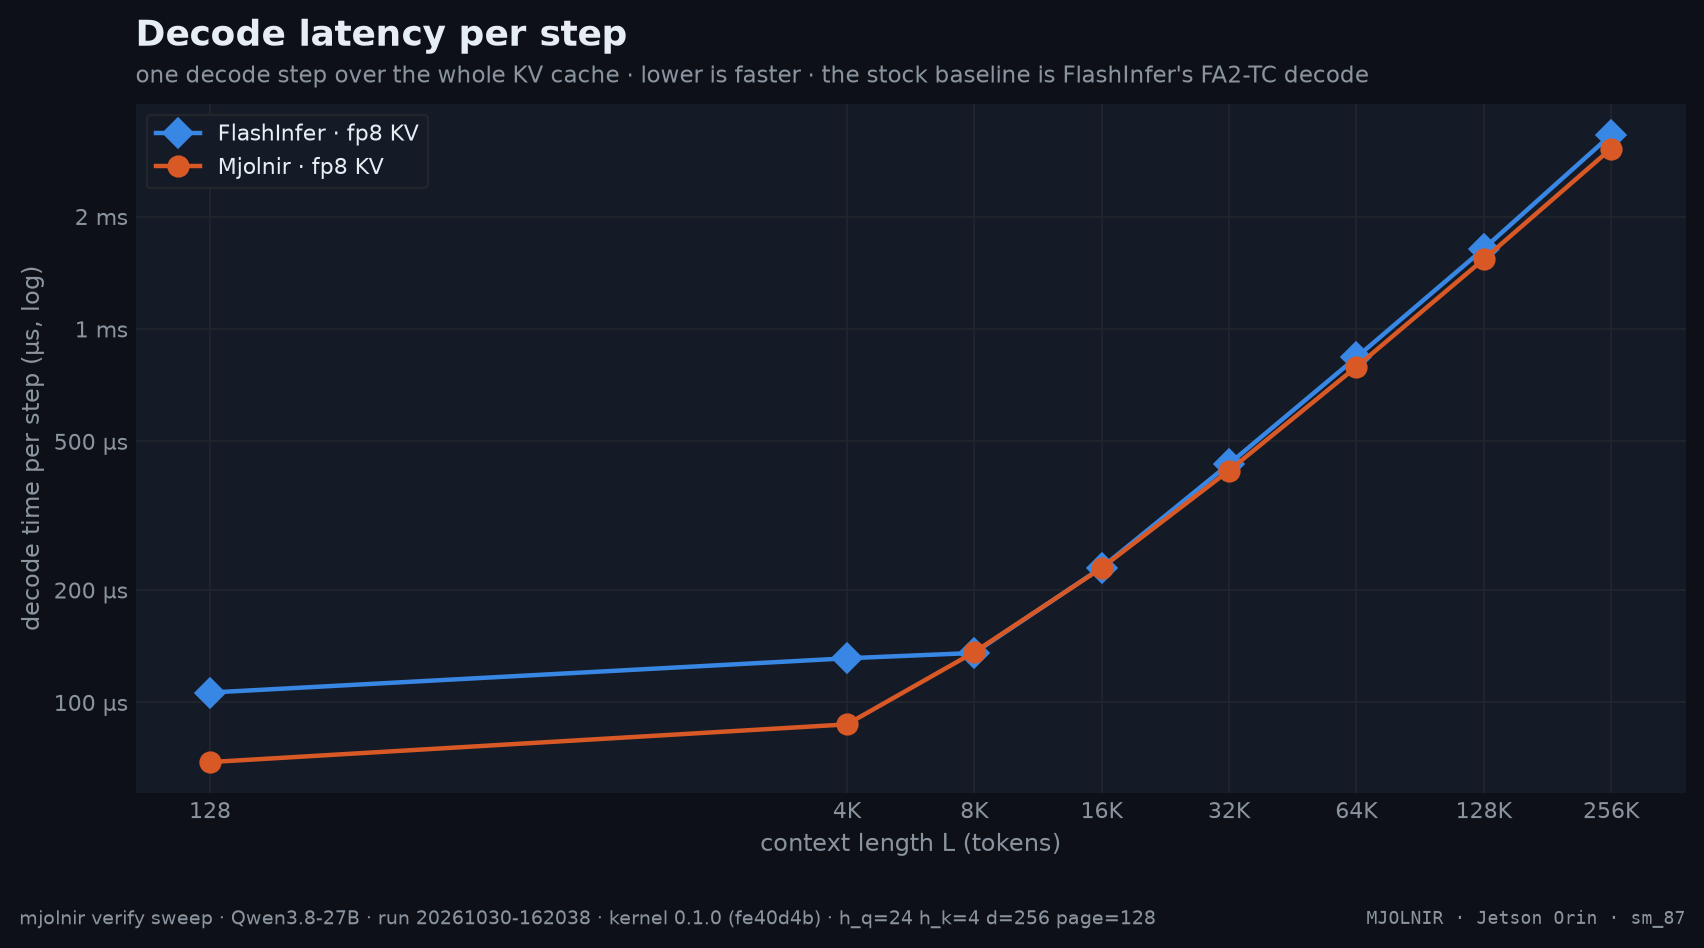
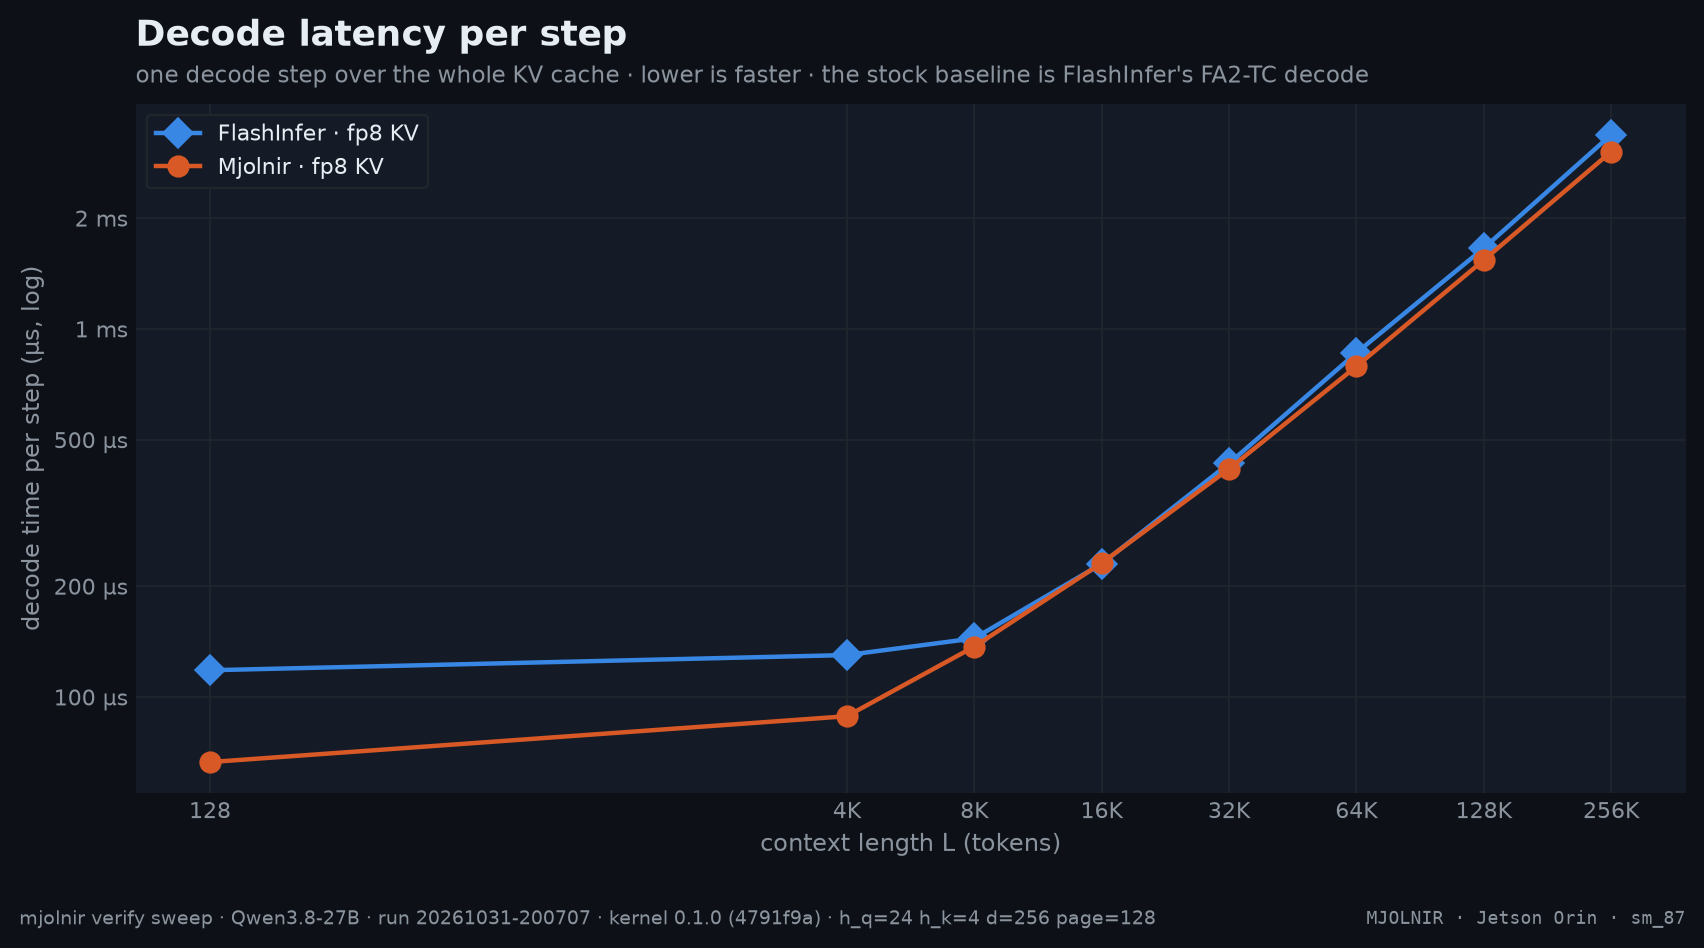
evidence refresh: the current kernel re-swept — 1.18x geomean, 48/48
correctness 20261031-200054 (all 48 checks, the hd128-era kernel) and
sweep 20261031-200707 replace the retired defaults; the orin README,
the correctness/sweep chapters and the three charts re-render from
them. Same-run vs FlashInfer FA2-TC: geomean 1.18x (min 1.00x at the
16K wall, max 1.78x at L=128) — up from the retired 1.14x record.

diff --git a/docs/platforms/orin/README.md b/docs/platforms/orin/README.md
@@ -49,7 +49,7 @@ from raw results in [`benchmarks/raw/verify/`](../../../benchmarks/raw/verify/)
 by `mjolnir plot --readme`; every chapter ends with the command that
 reproduces it.
 
-**Where it stands:** 1.14× FlashInfer (geomean over L = 128 4K 8K 16K 32K 64K 128K 256K), 48 / 48 correctness checks — run `20261030-162038`.
+**Where it stands:** 1.18× FlashInfer (geomean over L = 128 4K 8K 16K 32K 64K 128K 256K), 48 / 48 correctness checks — run `20261031-200707`.
 
 <details>
 <summary>How the % and × here are calculated</summary>
@@ -65,8 +65,8 @@ reproduces it.
 
 | # | chapter | question | status |
 |---|---|---|---|
-| 1 | [Correctness matrix](kernel/correctness.md) | kernel vs the bit-faithful emulator: every layout, format, page size, q_len, Q dtype | ✅ run `20261031-005307` |
-| 2 | [Headline L-sweep](kernel/sweep.md) | Mjolnir vs FlashInfer, fp8 KV — same-run kernel medians | ✅ run `20261030-162038` |
+| 1 | [Correctness matrix](kernel/correctness.md) | kernel vs the bit-faithful emulator: every layout, format, page size, q_len, Q dtype | ✅ run `20261031-200054` |
+| 2 | [Headline L-sweep](kernel/sweep.md) | Mjolnir vs FlashInfer, fp8 KV — same-run kernel medians | ✅ run `20261031-200707` |
 | 3 | [Head-major pages](kernel/hndsweep.md) | FlashInfer on NHD and HND vs Mjolnir on HND — is HND a kernel win or a layout win? | ✅ run `20261030-141453` |
 | 4 | [KV layouts and formats](kernel/kvfmt.md) | fp8 / fp6 / fp4 / nvfp4 KV on NHD / interleaved / HND pages (ncu + wall clock) | ✅ run `20261030-151506` |
 | 5 | [KV format accuracy](kernel/quant.md) | relative L2 error of each KV format vs unquantized KV, at every L | ✅ run `20261030-153729` |
@@ -97,15 +97,15 @@ Measured on the Orin: the `sm_87` mma decode kernel against the FlashInfer refer
 
 | L | Mjolnir fp8 | FlashInfer | fp8 vs FI |
 |---|--:|--:|--:|
-| **128** | **69.2&nbsp;µs** | 106.3&nbsp;µs | $\color{#16a34a}{\mathbf{1.54\times}}$ |
-| **4K** | **87.4&nbsp;µs** | 131.3&nbsp;µs | $\color{#16a34a}{\mathbf{1.50\times}}$ |
-| **8K** | 136.3&nbsp;µs | **135.7&nbsp;µs** | $\color{grey}{1.00\times}$ |
-| **16K** | **229.2&nbsp;µs** | 229.7&nbsp;µs | $\color{grey}{1.00\times}$ |
-| **32K** | **417.6&nbsp;µs** | 434.8&nbsp;µs | $\color{#16a34a}{\mathbf{1.04\times}}$ |
-| **64K** | **791.3&nbsp;µs** | 838.9&nbsp;µs | $\color{#16a34a}{\mathbf{1.06\times}}$ |
-| **128K** | **1.54&nbsp;ms** | 1.64&nbsp;ms | $\color{#16a34a}{\mathbf{1.07\times}}$ |
-| **256K** | **3.04&nbsp;ms** | 3.31&nbsp;ms | $\color{#16a34a}{\mathbf{1.09\times}}$ |
-| geomean |  |  | $\color{#16a34a}{\mathbf{1.14\times}}$ |
+| **128** | **66.6&nbsp;µs** | 118.2&nbsp;µs | $\color{#16a34a}{\mathbf{1.78\times}}$ |
+| **4K** | **88.7&nbsp;µs** | 130.0&nbsp;µs | $\color{#16a34a}{\mathbf{1.47\times}}$ |
+| **8K** | **137.0&nbsp;µs** | 144.3&nbsp;µs | $\color{#16a34a}{\mathbf{1.05\times}}$ |
+| **16K** | 231.0&nbsp;µs | **230.0&nbsp;µs** | $\color{grey}{1.00\times}$ |
+| **32K** | **416.5&nbsp;µs** | 431.0&nbsp;µs | $\color{#16a34a}{\mathbf{1.03\times}}$ |
+| **64K** | **790.5&nbsp;µs** | 860.5&nbsp;µs | $\color{#16a34a}{\mathbf{1.09\times}}$ |
+| **128K** | **1.54&nbsp;ms** | 1.66&nbsp;ms | $\color{#16a34a}{\mathbf{1.08\times}}$ |
+| **256K** | **3.03&nbsp;ms** | 3.37&nbsp;ms | $\color{#16a34a}{\mathbf{1.11\times}}$ |
+| geomean |  |  | $\color{#16a34a}{\mathbf{1.18\times}}$ |
 
 > <sub>Bold = fastest at that `L`. Ratio columns: baseline time ÷ this kernel's time (green = faster beyond noise).</sub>
 

diff --git a/docs/platforms/orin/kernel/sweep.md b/docs/platforms/orin/kernel/sweep.md
@@ -1,6 +1,6 @@
 # Headline L-sweep
 
-> the `sm_87` mma kernel vs the FlashInfer FA2-TC reference — events-timed at every L, same run, stock image · `mjolnir verify sweep` · run `20261030-162038`
+> the `sm_87` mma kernel vs the FlashInfer FA2-TC reference — events-timed at every L, same run, stock image · `mjolnir verify sweep` · run `20261031-200707`
 
 ## The question
 
@@ -21,19 +21,19 @@ The headline: how fast is one decode step with Mjolnir against the platform's st
 
 <img src="../../../../assets/benchmarks/orin/Qwen3.8-27B/kernel-bandwidth.png" alt="Effective KV bandwidth vs the platform's memory peak" width="100%">
 
-- **Mjolnir MMA (fp8 KV, HND)** vs FlashInfer FA2-TC (fp8 KV, NHD): geomean **1.14×**, from 1.00× (L=8K) to 1.54× (L=128); faster beyond the ±3% noise band at 6 of 8 context lengths.
+- **Mjolnir MMA (fp8 KV, HND)** vs FlashInfer FA2-TC (fp8 KV, NHD): geomean **1.18×**, from 1.00× (L=16K) to 1.78× (L=128); faster beyond the ±3% noise band at 7 of 8 context lengths.
 
 | L | Mjolnir fp8 | FlashInfer | fp8 vs FI |
 |---|--:|--:|--:|
-| **128** | **69.2&nbsp;µs** | 106.3&nbsp;µs | $\color{#16a34a}{\mathbf{1.54\times}}$ |
-| **4K** | **87.4&nbsp;µs** | 131.3&nbsp;µs | $\color{#16a34a}{\mathbf{1.50\times}}$ |
-| **8K** | 136.3&nbsp;µs | **135.7&nbsp;µs** | $\color{grey}{1.00\times}$ |
-| **16K** | **229.2&nbsp;µs** | 229.7&nbsp;µs | $\color{grey}{1.00\times}$ |
-| **32K** | **417.6&nbsp;µs** | 434.8&nbsp;µs | $\color{#16a34a}{\mathbf{1.04\times}}$ |
-| **64K** | **791.3&nbsp;µs** | 838.9&nbsp;µs | $\color{#16a34a}{\mathbf{1.06\times}}$ |
-| **128K** | **1.54&nbsp;ms** | 1.64&nbsp;ms | $\color{#16a34a}{\mathbf{1.07\times}}$ |
-| **256K** | **3.04&nbsp;ms** | 3.31&nbsp;ms | $\color{#16a34a}{\mathbf{1.09\times}}$ |
-| geomean |  |  | $\color{#16a34a}{\mathbf{1.14\times}}$ |
+| **128** | **66.6&nbsp;µs** | 118.2&nbsp;µs | $\color{#16a34a}{\mathbf{1.78\times}}$ |
+| **4K** | **88.7&nbsp;µs** | 130.0&nbsp;µs | $\color{#16a34a}{\mathbf{1.47\times}}$ |
+| **8K** | **137.0&nbsp;µs** | 144.3&nbsp;µs | $\color{#16a34a}{\mathbf{1.05\times}}$ |
+| **16K** | 231.0&nbsp;µs | **230.0&nbsp;µs** | $\color{grey}{1.00\times}$ |
+| **32K** | **416.5&nbsp;µs** | 431.0&nbsp;µs | $\color{#16a34a}{\mathbf{1.03\times}}$ |
+| **64K** | **790.5&nbsp;µs** | 860.5&nbsp;µs | $\color{#16a34a}{\mathbf{1.09\times}}$ |
+| **128K** | **1.54&nbsp;ms** | 1.66&nbsp;ms | $\color{#16a34a}{\mathbf{1.08\times}}$ |
+| **256K** | **3.03&nbsp;ms** | 3.37&nbsp;ms | $\color{#16a34a}{\mathbf{1.11\times}}$ |
+| geomean |  |  | $\color{#16a34a}{\mathbf{1.18\times}}$ |
 
 <details>
 <summary>How the % and × here are calculated</summary>
@@ -45,7 +45,7 @@ The headline: how fast is one decode step with Mjolnir against the platform's st
 
 </details><br />
 
-<sub>Rendered from [`benchmarks/raw/verify/sweep/20261030-162038.json`](../../../../benchmarks/raw/verify/sweep/20261030-162038.json). Ratios: FlashInfer time ÷ variant time; green = faster beyond the ±3% noise band, red = slower, gray = within noise.</sub>
+<sub>Rendered from [`benchmarks/raw/verify/sweep/20261031-200707.json`](../../../../benchmarks/raw/verify/sweep/20261031-200707.json). Ratios: FlashInfer time ÷ variant time; green = faster beyond the ±3% noise band, red = slower, gray = within noise.</sub>
 
 ## How to read it
 

diff --git a/docs/platforms/orin/kernel/correctness.md b/docs/platforms/orin/kernel/correctness.md
@@ -1,6 +1,6 @@
 # Correctness matrix
 
-> kernel vs the bit-faithful emulator: every layout, format, page size, q_len, Q dtype · `mjolnir verify correctness` · run `20261031-005307`
+> kernel vs the bit-faithful emulator: every layout, format, page size, q_len, Q dtype · `mjolnir verify correctness` · run `20261031-200054`
 
 ## The question
 
@@ -22,7 +22,7 @@ Before any speed number counts, the kernel has to compute the same thing as atte
 | shapes / batches | ✅ 24/24 | bf16 |
 | KV formats | ✅ 24/24 | bf16 |
 
-<sub>Rendered from [`benchmarks/raw/verify/correctness/20261031-005307.json`](../../../../benchmarks/raw/verify/correctness/20261031-005307.json). Ratios: FlashInfer time ÷ variant time; green = faster beyond the ±3% noise band, red = slower, gray = within noise.</sub>
+<sub>Rendered from [`benchmarks/raw/verify/correctness/20261031-200054.json`](../../../../benchmarks/raw/verify/correctness/20261031-200054.json). Ratios: FlashInfer time ÷ variant time; green = faster beyond the ±3% noise band, red = slower, gray = within noise.</sub>
 
 ## How to read it
 
